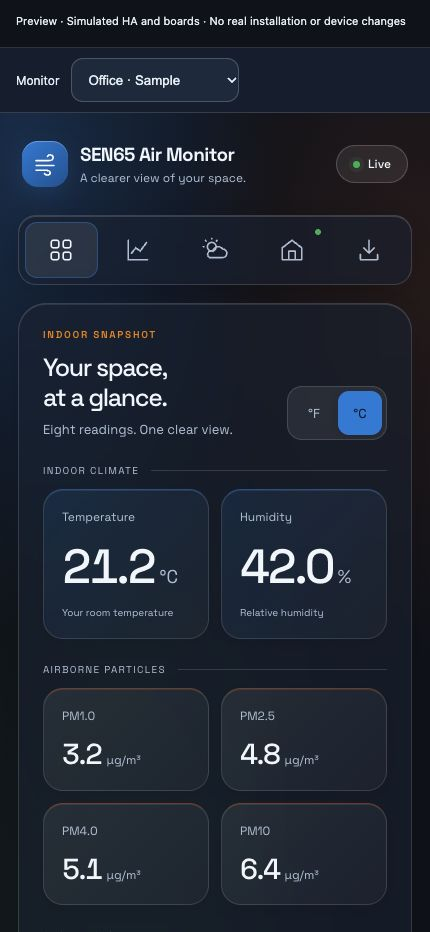
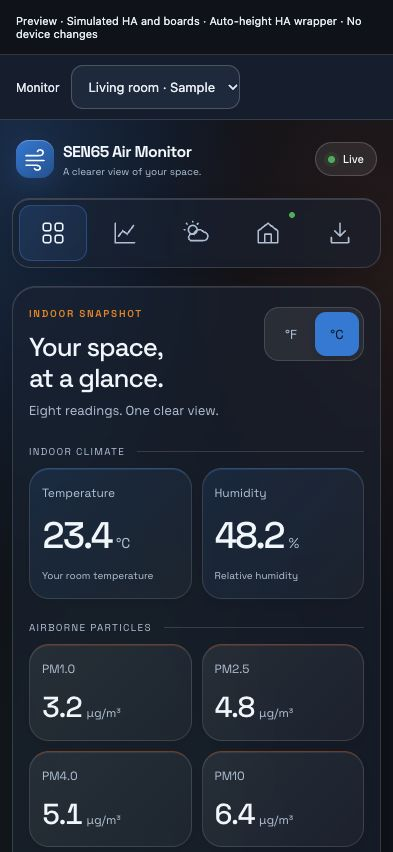
Fix Home Assistant dashboard viewport height

diff --git a/custom_components/sen65_air_monitor/frontend/panel.js b/custom_components/sen65_air_monitor/frontend/panel.js
@@ -3,17 +3,40 @@ class SEN65AirMonitorPanel extends HTMLElement {
   constructor() {
     super();this._hass=null;this._entries=[];this._selected='';this._loading=false;
     this.attachShadow({mode:'open'});
-    this.shadowRoot.innerHTML=`<style>:host{display:block;height:100%;background:#0b111b;color:#e9eff6;font-family:system-ui}[hidden]{display:none!important} .bar{display:flex;align-items:center;gap:12px;padding:10px 16px;background:#142133;border-bottom:1px solid #ffffff24}label{font-size:12px}select{min-height:44px;max-width:100%;color:inherit;background:#1e3044;border:1px solid #ffffff33;border-radius:12px;padding:8px 12px}iframe{display:block;width:100%;height:calc(100% - 65px);border:0}p{padding:16px;font-size:13px}button{min-height:44px;padding:8px 14px;color:inherit;background:#2585d9;border:0;border-radius:12px}</style><div class="bar"><label for="board">Monitor</label><select id="board" aria-label="Select monitor"></select></div><p id="status" role="status">Connecting to Home Assistant…</p><button id="retry" hidden>Try again</button><iframe title="SEN65 Air Monitor dashboard" hidden></iframe>`;
+    this.shadowRoot.innerHTML=`<style>:host{display:flex;flex-direction:column;box-sizing:border-box;height:var(--sen65-panel-height,100vh);height:var(--sen65-panel-height,100dvh);min-height:0;overflow:hidden;background:#0b111b;color:#e9eff6;font-family:system-ui}[hidden]{display:none!important}.bar{display:flex;flex:0 0 auto;align-items:center;gap:12px;padding:10px 16px;background:#142133;border-bottom:1px solid #ffffff24}label{font-size:12px}select{font:inherit;font-size:13px;min-width:0;min-height:44px;max-width:100%;color:inherit;background:#1e3044;border:1px solid #ffffff33;border-radius:12px;padding:8px 12px}iframe{display:block;flex:1 1 0;width:100%;min-height:0;border:0}p{padding:16px;font-size:13px}button{min-height:44px;padding:8px 14px;color:inherit;background:#2585d9;border:0;border-radius:12px}</style><div class="bar"><label for="board">Monitor</label><select id="board" aria-label="Select monitor"></select></div><p id="status" role="status">Connecting to Home Assistant…</p><button id="retry" hidden>Try again</button><iframe title="SEN65 Air Monitor dashboard" hidden></iframe>`;
     this._frame=this.shadowRoot.querySelector('iframe');this._select=this.shadowRoot.querySelector('select');
     this._status=this.shadowRoot.querySelector('#status');this._retry=this.shadowRoot.querySelector('#retry');
     this._select.addEventListener('change',()=>this._show(this._select.value));
     this._retry.addEventListener('click',()=>this._load());
     this._receive=event=>this._bridge(event);
+    this._scheduleFit=()=>{if(!this.isConnected||this._fitFrame!=null)return;this._fitFrame=requestAnimationFrame(()=>{this._fitFrame=null;this._fitViewport();});};
   }
   set hass(value){this._hass=value;if(this.isConnected&&!this._entries.length&&!this._loading&&this._retry.hidden)this._load();}
   set panel(value){this._panel=value;}
-  connectedCallback(){window.addEventListener('message',this._receive);if(this._hass)this._load();}
-  disconnectedCallback(){window.removeEventListener('message',this._receive);this._frame.src='about:blank';this._entries=[];this._selected='';}
+  set narrow(value){this._narrow=value;this._scheduleFit();}
+  connectedCallback(){
+    window.addEventListener('message',this._receive);window.addEventListener('resize',this._scheduleFit);
+    window.visualViewport?.addEventListener('resize',this._scheduleFit);
+    if(typeof ResizeObserver!=='undefined'&&this.parentElement){this._sizeObserver=new ResizeObserver(this._scheduleFit);this._sizeObserver.observe(this.parentElement);}
+    this._scheduleFit();if(this._hass)this._load();
+  }
+  disconnectedCallback(){
+    window.removeEventListener('message',this._receive);window.removeEventListener('resize',this._scheduleFit);
+    window.visualViewport?.removeEventListener('resize',this._scheduleFit);this._sizeObserver?.disconnect();
+    if(this._fitFrame!=null)cancelAnimationFrame(this._fitFrame);this._fitFrame=null;
+    this._frame.src='about:blank';this._entries=[];this._selected='';
+  }
+  _fitViewport(){
+    if(!this.isConnected)return;
+    // HA's custom-panel wrapper can have auto height. Percentage iframe heights
+    // then fall back to 150px, so measure the visible space instead of inheriting.
+    const viewport=window.visualViewport;
+    const bottom=viewport?viewport.offsetTop+viewport.height:window.innerHeight;
+    const padding=parseFloat(getComputedStyle(this.parentElement||this).paddingBottom)||0;
+    const height=Math.max(0,Math.floor(bottom-Math.max(0,this.getBoundingClientRect().top)-padding));
+    const value=height+'px';
+    if(this.style.getPropertyValue('--sen65-panel-height')!==value)this.style.setProperty('--sen65-panel-height',value);
+  }
   async _load(){
     if(!this._hass||this._loading)return;
     this._loading=true;this._retry.hidden=true;

diff --git a/tests/ha_panel_test.js b/tests/ha_panel_test.js
@@ -2,8 +2,23 @@ const assert=require('node:assert/strict'),fs=require('node:fs'),path=require('n
 let Panel;
 const source=fs.readFileSync(path.resolve(__dirname,'../custom_components/sen65_air_monitor/frontend/panel.js'),'utf8');
 assert.match(source,/\[hidden\]\{display:none!important\}/); // Explicit iframe display must not override hidden/offline states.
-vm.runInNewContext(source,{HTMLElement:class{},customElements:{define:(name,klass)=>{assert.equal(name,'sen65-air-monitor-panel');Panel=klass;}},location:{origin:'https://ha.example.test'}});
+assert.match(source,/flex:1 1 0/);
+assert.doesNotMatch(source,/height:calc\(100% - 65px\)/);
+const viewport={offsetTop:0,height:800};
+const sizeWindow={visualViewport:viewport,innerHeight:800};
+vm.runInNewContext(source,{HTMLElement:class{},customElements:{define:(name,klass)=>{assert.equal(name,'sen65-air-monitor-panel');Panel=klass;}},location:{origin:'https://ha.example.test'},window:sizeWindow,getComputedStyle:()=>({paddingBottom:'12px'})});
+const fixture=fs.readFileSync(path.resolve(__dirname,'../tools/preview_ha_panel.mjs'),'utf8');
+assert.doesNotMatch(fixture,/sen65-air-monitor-panel\{height:/); // The fixture must not conceal component sizing bugs.
 async function main(){
+  const sizing=Object.create(Panel.prototype),styles=new Map();sizing.isConnected=true;
+  sizing.getBoundingClientRect=()=>({top:48});sizing.style={getPropertyValue:k=>styles.get(k),setProperty:(k,v)=>styles.set(k,v)};
+  sizing._fitViewport();assert.equal(styles.get('--sen65-panel-height'),'740px');
+  viewport.height=500;sizing._fitViewport();assert.equal(styles.get('--sen65-panel-height'),'440px');
+  viewport.height=40;sizing._fitViewport();assert.equal(styles.get('--sen65-panel-height'),'0px');
+  viewport.height=500;viewport.offsetTop=100;sizing._fitViewport();assert.equal(styles.get('--sen65-panel-height'),'540px');
+  sizeWindow.visualViewport=undefined;sizing._fitViewport();assert.equal(styles.get('--sen65-panel-height'),'740px');
+  sizeWindow.visualViewport=viewport;viewport.offsetTop=0;viewport.height=40;sizing._fitViewport();
+  sizing.isConnected=false;viewport.height=800;sizing._fitViewport();assert.equal(styles.get('--sen65-panel-height'),'0px');
   const sent=[],frame={postMessage:(data,origin)=>sent.push({data,origin})};
   const panel=Object.create(Panel.prototype);panel._selected='a';panel._session='new';panel._frame={contentWindow:frame};
   let calls=0;panel._hass={callWS:async data=>{calls++;assert.equal(data.entry_id,'a');return {status:200,data:{temp:23}};}};
@@ -16,6 +31,6 @@ async function main(){
   const pending=panel._bridge({origin:'https://ha.example.test',source:frame,data});
   panel._session='switched-away-and-back';resolve({status:200,data:{temp:99}});await pending;
   assert.equal(sent.length,1); // Even switching away and back cannot deliver old data.
-  console.log('HA panel bridge and board-switching security tests passed.');
+  console.log('HA panel sizing, bridge and board-switching security tests passed.');
 }
 main().catch(error=>{console.error(error);process.exitCode=1;});

diff --git a/custom_components/sen65_air_monitor/const.py b/custom_components/sen65_air_monitor/const.py
@@ -3,6 +3,6 @@
 DOMAIN = "sen65_air_monitor"
 PANEL_PATH = "sen65-air-monitor"
 STATIC_PATH = "/sen65_air_monitor_static"
-FRONTEND_VERSION = "0.1.1"
+FRONTEND_VERSION = "0.1.2"
 MAX_RESPONSE_BYTES = 131072
 REQUEST_TIMEOUT = 12

diff --git a/docs/home-assistant.md b/docs/home-assistant.md
@@ -15,7 +15,7 @@ connection; HA, not the remote browser, must be able to reach the board.
 
 ## Status and requirements
 
-- Integration version: **0.1.1, initial public release**. Available from this
+- Integration version: **0.1.2, panel-height fix**. Available from this
   repository, but not included in the default HACS catalogue.
 - Tested API compatibility: **Home Assistant 2026.9.4**, Python 3.14. Earlier
   HA versions are not currently declared supported.
@@ -40,6 +40,29 @@ See [attribution and changes](../NOTICE.md) and the [license](../LICENSE).
 
 ## Installation
 
+### Updating from v0.1.1: clipped dashboard fix
+
+The public v0.1.1 panel can collapse to a 150-pixel iframe in HA's auto-height
+custom-panel wrapper, leaving most of the screen blank. v0.1.2 fixes that sizing
+bug by measuring the available viewport and allocating it to the dashboard.
+This update changes
+only the HA integration, not board firmware.
+
+In HACS, open the SEN65 Air Monitor repository, check for the latest release
+and download **ha-v0.1.2**. If HACS has not refreshed its release list yet,
+refresh the repository information before downloading. Then restart HA and
+fully reload the HA browser page (or reopen the Companion app) so its new
+panel module is loaded. Keep existing SEN65 and ESPHome entries.
+
+For manual installation, download the [v0.1.2 ZIP](../dist/home-assistant/sen65-air-monitor-ha-v0.1.2.zip),
+back up the current component and replace only
+`/config/custom_components/sen65_air_monitor` with the folder from the v0.1.2
+package. Restart HA and fully reload the HA browser page to load the new panel
+module. Keep existing SEN65 and ESPHome entries. No board restart or graph-history
+reset is needed. Confirm that the panel fills the visible screen and remains
+usable after resizing and selecting History; roll back to the backed-up component
+and restart HA if the update fails.
+
 ### Manual installation
 
 1. Copy **only** `custom_components/sen65_air_monitor` into your HA configuration
@@ -53,7 +76,7 @@ See [attribution and changes](../NOTICE.md) and the [license](../LICENSE).
 5. Open **SEN65 Air Monitor** in the HA sidebar. No second dashboard-creation step
    is needed. Add another integration entry for each additional board.
 
-For a packaged install, download the [v0.1.1 installation ZIP](../dist/home-assistant/sen65-air-monitor-ha-v0.1.1.zip)
+For a packaged install, download the [v0.1.2 installation ZIP](../dist/home-assistant/sen65-air-monitor-ha-v0.1.2.zip)
 and extract it into the HA
 configuration directory; it already contains the `custom_components` structure.
 Back up an existing installation first. Do not extract the entire project or
@@ -112,6 +135,10 @@ HTTPS, as it does in the standalone dashboard.
 
 The following fixture runs the actual panel and shared frontend with simulated
 HA commands and sample boards, not a real HA installation:
+
+It deliberately uses an auto-height wrapper, with no externally forced panel
+height. This reproduces HA's percentage-height failure and prevents the fixture
+from hiding it again. The panel itself must fill the remaining viewport.
 
 ```sh
 node tools/preview_dashboard.mjs 8768

diff --git a/README.md b/README.md
@@ -31,7 +31,7 @@ new files on GitHub never installs them automatically. See the
 
 The **v0.3.7** source and matching OTA/factory images are available in `dist/`.
 Install the release on a board for the compact mobile menu and simplified HA setup.
-The separate **HA integration v0.1.1** works with board firmware v0.3.6 or later.
+The separate **HA integration v0.1.2** works with board firmware v0.3.6 or later.
 Build, backend and browser tests pass; real-board/HA installation testing remains.
 
 - SEN65 readings: PM1, PM2.5, PM4, PM10, temperature, humidity, VOC and NOx
@@ -53,8 +53,8 @@ Build, backend and browser tests pass; real-board/HA installation testing remain
 - interactive web History: toggle traces and inspect recorded points (v0.3.6+)
 - local Home Assistant discovery and optional integration setup
 - the exact dashboard through HA's authenticated connection, with automatic
-  sidebar registration and a multi-board selector (HA integration v0.1.1)
-- one-row icon-only mobile navigation (firmware v0.3.7 / HA integration v0.1.1)
+  sidebar registration and a multi-board selector (HA integration v0.1.2)
+- one-row icon-only mobile navigation (firmware v0.3.7 / HA integration v0.1.2)
 - Wi-Fi onboarding through captive portal and Improv Serial/BLE
 
 ## Web dashboard
@@ -86,12 +86,18 @@ sidebar panel appears automatically and supports multiple boards. The browser
 uses HA's authenticated connection; HA contacts the board on the LAN. No board
 subdomain, certificate or additional Cloudflare route is needed.
 
-Download the [HA v0.1.1 installation ZIP](dist/home-assistant/sen65-air-monitor-ha-v0.1.1.zip)
+Download the [HA v0.1.2 installation ZIP](dist/home-assistant/sen65-air-monitor-ha-v0.1.2.zip)
 or add this repository to HACS as an **Integration** custom repository.
 It is not in the default HACS catalogue. The first version is administrator-only
 because it includes device controls. Keep native ESPHome for sensor entities
 and automations. HA API tests use **2026.9.4** with mocked boards, not a real-user
 HA installation. See the [installation and security guide](docs/home-assistant.md).
+
+**Already using HA v0.1.1?** Update the custom integration to v0.1.2, restart
+HA and fully reload its browser page. This fixes the dashboard clipped to a
+150-pixel strip in HA's auto-height panel wrapper. No board firmware update or
+graph-history reset is required. The preview now uses the same auto-height
+constraint, rather than forcing the component to fill its container externally.
 
 ![Shared dashboard in the simulated HA panel](docs/dashboard-ha-panel.jpg)
 

diff --git a/CHANGELOG.md b/CHANGELOG.md
@@ -1,5 +1,21 @@
 # Changelog
 
+## HA integration 0.1.2 - 2026-10-03
+
+- fix the clipped 150-pixel dashboard iframe inside HA's auto-height custom-panel
+  wrapper; the panel now measures its available viewport height and uses a flex
+  layout to give the dashboard all space below the monitor selector
+- update sizing on window/mobile viewport, parent-container and narrow-layout
+  changes; account for the panel's top offset and bottom safe-area padding
+- remove the preview's forced panel height, which masked this real integration
+  bug, and add sizing/resize regression checks
+- keep firmware v0.3.7 unchanged; this is an HA integration update only
+
+The clipping was reproduced using the published v0.1.1 component in an
+auto-height wrapper: iframe height 150 pixels. The corrected component fills
+the available space in desktop and 320/393-pixel mobile browser checks. Real
+HA confirmation after installation is still required. No board is flashed.
+
 ## Firmware 0.3.7 / HA integration 0.1.1 - 2026-10-03
 
 - publish the SEN65 Air Monitor HA custom integration: user-confirmed setup,

diff --git a/docs/dashboard-design.md b/docs/dashboard-design.md
@@ -1,4 +1,4 @@
-# Dark glass dashboard — firmware v0.3.7 / HA v0.1.1
+# Dark glass dashboard — firmware v0.3.7 / HA v0.1.2
 
 The dark glass design was introduced in v0.3.3. These current screenshots
 include the History inspector, simplified Home Assistant setup and shared HA
@@ -53,6 +53,12 @@ The panel previews use simulated HA commands and sample boards. Real HA serves
 the same dashboard through its authenticated connection and registers a sidebar
 panel. No separate board HTTPS address is needed. HA installation remains a
 separate validation step; the fixture is not a full HA frontend.
+
+HA v0.1.2 fixes the dashboard clipped to a 150-pixel strip in an auto-height
+custom-panel wrapper. These updated screenshots use that auto-height constraint;
+the fixture no longer sets a height on the component to conceal sizing failures.
+Desktop and 320/393-pixel mobile resize checks pass; confirmation in the user's
+real HA installation after updating remains a separate step.
 
 ## Visual direction
 

diff --git a/docs/updates.md b/docs/updates.md
@@ -38,6 +38,11 @@ version and URL guards apply to the local dashboard API.
 
 ## Problems
 
+The HA custom integration has its own releases. If its dashboard is clipped
+to a short strip, update that integration to **ha-v0.1.2**, restart HA and
+fully reload its browser page. This does not require a board firmware update.
+See the [HA upgrade instructions](home-assistant.md#updating-from-v011-clipped-dashboard-fix).
+
 - **Initial update required:** use ESPHome OTA or USB once. An old dashboard
   may instead show an unknown version or a check that never finds an update.
 - **Update error / timeout:** verify internet access, then check again.
